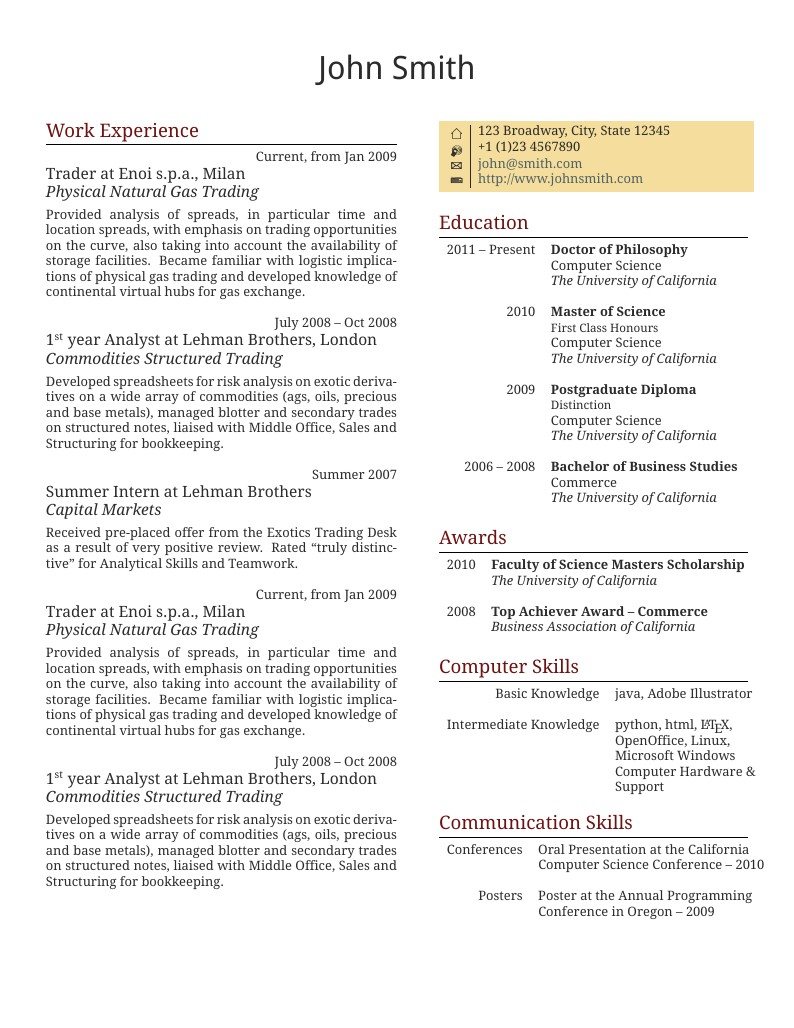
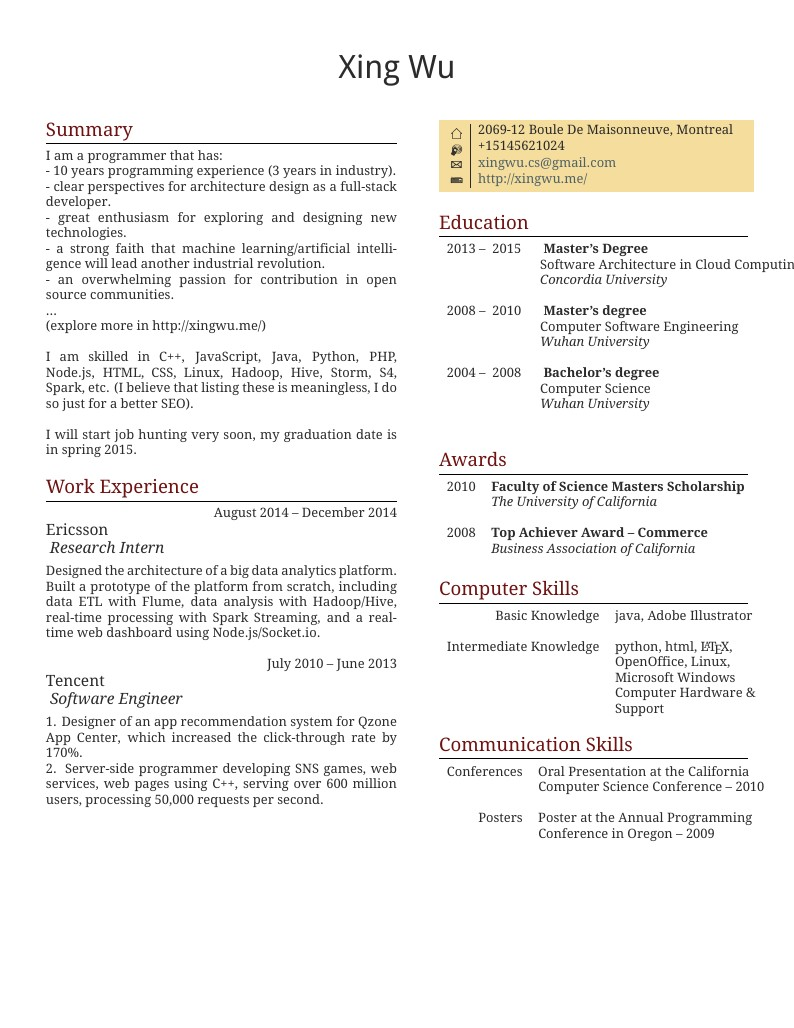
update template

diff --git a/scripts/6ff83bdd.main.js b/scripts/6ff83bdd.main.js
@@ -1,0 +1,1 @@
+"use strict";var AR=window.AR=window.AR||{};AR.fullProfileFields=["first-name","last-name","email-address","summary","specialties","location","picture-url","public-profile-url","last-modified-timestamp","proposal-comments","associations","interests","publications","patents","languages","skills","certifications","educations","courses","volunteer","three-current-positions","three-past-positions","num-recommenders","recommendations-received","date-of-birth","member-url-resources","related-profile-views","honors-awards","phone-numbers","bound-account-types","im-accounts","main-address","twitter-accounts","primary-twitter-account"],AR.renderDate=function(a){if(a.month){var b=["January","February","March","April","May","June","July","August","September","October","November","December"];return b[a.month-1]+" "+a.year}return a.year},AR.getPhone=function(a){if(a.length<1)return"Provide upon request";for(var b=["mobile","work","home"],c=0;c<a.length;c++){var d=a[c];d.index=b.indexOf(d.type)}return a.sort(function(a,b){return a.index-b.index})[0].phoneNumber},AR.LatexText=function(a){function b(a){var d,g,h=!1,i=a;return e.forEach(function(j,k){h||(d=a.search(f[k]),g=a.match(f[k]),-1!==d&&(i=b(a.slice(0,d))+c[e[k]]+b(a.slice(d+g.length)),h=!0))}),i}var c={"\n":"\\\\","{":"\\{","}":"\\}","\\":"\\textbackslash{}","#":"\\#",$:"\\$","%":"\\%","&":"\\&","^":"\\textasciicircum{}",_:"\\_","~":"\\textasciitilde{}"},d=function(a){return a.replace(/[\-\[\]\/\{\}\(\)\*\+\?\.\\\^\$\|]/g,"\\$&")},e=Object.keys(c),f=e.map(function(a){return d(a)});return b(a)};var AR=window.AR=window.AR||{};AR.templates=[{id:"two-column",preview:"/templates/two-column/preview.jpg",src:"/templates/two-column/resume.tex",type:"LaTeX",author:{name:"LaTeXTemplates",url:"http://www.latextemplates.com/"}},{id:"light-blue",preview:"/templates/light-blue/preview.png",src:"/templates/light-blue/resume.html",type:"HTML",author:{name:"Xing Wu",url:"http://xingwu.me/"}}];var AR=window.AR=window.AR||{};AR.onLinkedInLoad=function(){IN.Event.on(IN,"auth",AR.onLinkedInAuth)},doT.templateSettings.strip=!1,ZeroClipboard.config({swfPath:"/bower_components/zeroclipboard/dist/ZeroClipboard.swf"}),AR.onLinkedInAuth=function(){$("#msg").html(""),IN.API.Profile("me").fields(AR.fullProfileFields).result(function(a){AR.profile=a.values[0],$("#btn-generate").click(function(){$("#msg").html(""),$("#rst-list").hide();var a=$(".carousel-inner > .item.active > input").val(),b=$(".carousel-inner > .item.active span.tmpl-type").html();$.ajax({url:a,success:function(a){var c=doT.template(a);AR.resumeStr=c(AR.profile),AR.resumeBlob=new Blob([AR.resumeStr],{type:"text/plain;charset=utf-8"});var d=doT.template($("#rst-tmpl").html());$("#rst-list").html(d(b)),$("#rst-list").show(),AR.bindZclip()},error:function(a,b,c){$("#msg").html(c)}})})})},AR.bindZclip=function(){AR.zclipClients&&ZeroClipboard.destroy(),AR.zclipClients=new ZeroClipboard($(".btn-copy")),AR.zclipClients.on("ready",function(){AR.zclipClients.on("beforecopy",function(){}),AR.zclipClients.on("copy",function(a){a.clipboardData.setData("text/plain",AR.resumeStr)}),AR.zclipClients.on("aftercopy",function(a){$(a.target).children("span").removeClass("hide").show()}),AR.zclipClients.on("error",function(a){console.log(a)})})},$(function(){var a=doT.template($("#item-tmpl").html());$("#carousel-tmpl div.carousel-inner").html(a(AR.templates)),$("#carousel-tmpl").carousel({interval:!1}),$("#btn-generate").click(function(){$("#msg").html("Please login to LinkedIn first.")}),$(".btn-copy").on("click",function(){$(this).children("span").hide()}),document.addEventListener("keydown",function(a){var b=a.keyCode||a.which;73===b&&console.log(AR.profile)})});

diff --git a/index.html b/index.html
@@ -32,6 +32,6 @@
       e=o.createElement(i);r=o.getElementsByTagName(i)[0];
       e.src='//www.google-analytics.com/analytics.js';
       r.parentNode.insertBefore(e,r)}(window,document,'script','ga'));
-      ga('create','UA-XXXXX-X');ga('send','pageview');</script> <script src=scripts/217a87a9.main.js></script> <script type=text/javascript src=http://platform.linkedin.com/in.js>api_key: 7836focl5u7mn2
+      ga('create','UA-XXXXX-X');ga('send','pageview');</script> <script src=scripts/6ff83bdd.main.js></script> <script type=text/javascript src=http://platform.linkedin.com/in.js>api_key: 7836focl5u7mn2
         onLoad: AR.onLinkedInLoad
         authorize: true</script>  

diff --git a/templates/two-column/resume.tex b/templates/two-column/resume.tex
@@ -73,8 +73,8 @@
 %	TITLE
 %----------------------------------------------------------------------------------------
 
-\par{\centering{\sffamily\Huge John Smith}\\ % Your name
-{\color{headings}\fontspec[Variant = 2]{Droid Serif} Curriculum {Vit\fontspec[Variant = 3]{Droid Serif}\ae}\\[15pt]\par} % Curriculum vitae text in the Zapfino font
+\par{\centering{\sffamily\Huge {{=it.firstName}} {{=it.lastName}} }\\ % Your name
+\vspace{20pt}
 	
 %----------------------------------------------------------------------------------------
 
@@ -85,21 +85,23 @@
 %	WORK EXPERIENCE
 %----------------------------------------------------------------------------------------
 
+\section{Summary} 
+\normalsize{ {{=AR.LatexText(it.summary)}} }\\
+
+
 \section{Work Experience} 
 
-%------------------------------------------------
-% WORK EXPERIENCE 1
-%------------------------------------------------
 {{~it.threePastPositions.values :position:index}}
 {\raggedleft\textsc{ {{? position.isCurrent}}Current, from {{=AR.renderDate(position.startDate)}}{{??}}{{=AR.renderDate(position.startDate)}} -- {{=AR.renderDate(position.endDate)}}{{?}} }\par}
 
 {\raggedright\large {{=position.company.name}} \\
 \textit{ {{=position.title}} }\\[5pt]}
 
-\normalsize{ {{=position.summary}} }\\
+\normalsize{ {{=AR.LatexText(position.summary)}} }\\
 {{~}}
 
-%----------------------------------------------------------------------------------------	
+%----------------------------------------------------------------------------------------
+
 
 \end{minipage} % End the left-hand side of the page
 \hfill
@@ -112,10 +114,10 @@
 
 \colorbox{shade}{\textcolor{text1}{
 \begin{tabular}{c|p{7cm}}
-\raisebox{-4pt}{\textifsymbol{18}} & 123 Broadway, City, State 12345 \\ % Address
-\raisebox{-3pt}{\Mobilefone} & +1 (1)23 4567890 \\ % Phone number
-\raisebox{-1pt}{\Letter} & \href{mailto:john@smith.com}{john@smith.com} \\ % Email address
-\Keyboard & \href{http://www.johnsmith.com}{http://www.johnsmith.com} \\ % Website
+\raisebox{-4pt}{\textifsymbol{18}} & {{=it.mainAddress}} \\ % Address
+\raisebox{-3pt}{\Mobilefone} & {{=AR.getPhone(it.phoneNumbers.values)}} \\ % Phone number
+\raisebox{-1pt}{\Letter} & \href{mailto:{{=it.emailAddress}} }{ {{=it.emailAddress}} } \\ % Email address
+{{? it.memberUrlResources.values.length > 0}}\Keyboard & \href{ {{=it.memberUrlResources.values[0].url}} }{ {{=it.memberUrlResources.values[0].url}} } \\ % Website {{?}}
 \end{tabular}
 }
 }\\[10pt]
@@ -128,42 +130,12 @@
 
 \begin{tabular}{rl} % Start a table with two columns, one for dates and one for qualifications
 
-%------------------------------------------------
-% EDUCATION 1
-%------------------------------------------------
-
-2011 -- \textsc{Present} & \textbf{Doctor of Philosophy} \\ 
-& \textsc{Computer Science} \\ 
-& \textit{The University of California}\\
+{{~it.educations.values :education:index}}
+{{=AR.renderDate(education.startDate)}} -- \textsc{ {{=AR.renderDate(education.endDate)}} } & \textbf{ {{=education.degree}} } \\ 
+& \textsc{{{=education.fieldOfStudy}}} \\ 
+& \textit{{{=education.schoolName}}}\\
 &\\
-	 
-%------------------------------------------------
-% EDUCATION 2
-%------------------------------------------------
-
-2010 & \textbf{Master of Science} \\ 
-& \small First Class Honours \\
-& \textsc{Computer Science} \\ 
-& \textit{The University of California}\\
-&\\
-	 
-%------------------------------------------------
-% EDUCATION 3
-%------------------------------------------------
-
-2009 & \textbf{Postgraduate Diploma}\\
-& \small Distinction \\
-& \textsc{Computer Science} \\
-& \textit{The University of California}\\
-&\\
-	 
-%------------------------------------------------
-% EDUCATION 4
-%------------------------------------------------
-
-2006 -- 2008 & \textbf{Bachelor of Business Studies}\\
-& \textsc{Commerce} \\
-& \textit{The University of California} 
+{{~}}
 	
 %----------------------------------------------------------------------------------------
 
